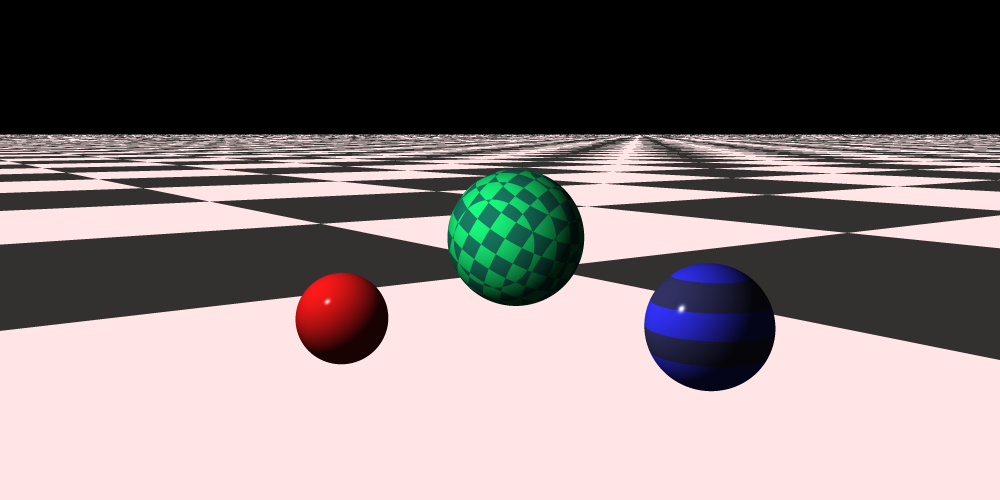
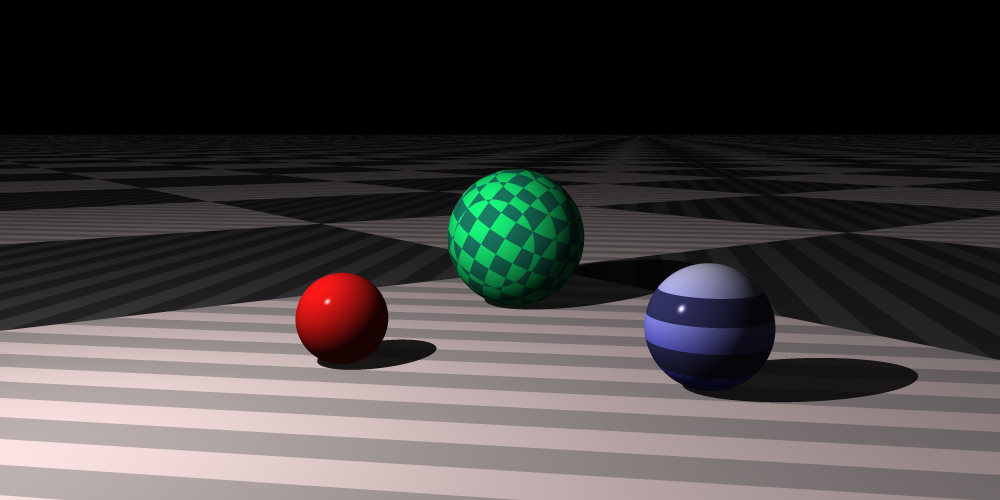
Updated main scene

diff --git a/cmd/main.go b/cmd/main.go
@@ -153,8 +153,16 @@ func drawTestScene() {
 		Color:     color.NewColor(1, 0.9, 0.9),
 		Pattern: shading.NewCheckerPattern3D(
 			matrix.ScalingU(20),
-			shading.SolidPat(1, 0.9, 0.9),
-			shading.SolidPat(0.2, 0.19, 0.19)),
+			shading.NewStripePattern(
+				matrix.RotationZ(math.Pi/4),
+				shading.SolidPat(1, 0.9, 0.9),
+				shading.SolidPat(.75, 0.7, 0.7),
+			),
+			shading.NewStripePattern(
+				matrix.RotationZ(-math.Pi/4),
+				shading.SolidPat(0.2, 0.19, 0.19),
+				shading.SolidPat(.3, 0.3, 0.3),
+			)),
 	}
 	floor := geometry.NewPlane(
 		matrix.Identity,
@@ -202,7 +210,14 @@ func drawTestScene() {
 					matrix.RotationY(math.Pi/2),
 					matrix.ScalingU(.5),
 				),
-				shading.SolidPat(0.2, 0.2, 1),
+				shading.NewGradientPattern(
+					matrix.Compose(
+						matrix.RotationY(math.Pi/2),
+						matrix.ScalingU(3),
+					),
+					shading.SolidPat(0.9, 0.9, 0.9),
+					shading.SolidPat(0.2, 0.2, 1),
+				),
 				shading.SolidPat(0.2, 0.2, 0.4)),
 		})
 

diff --git a/shading/stripe_pattern.go b/shading/stripe_pattern.go
@@ -1,6 +1,8 @@
 package shading
 
 import (
+	"math"
+
 	"github.com/Henelik/tricaster/color"
 	"github.com/Henelik/tricaster/matrix"
 	"github.com/Henelik/tricaster/tuple"
@@ -37,5 +39,5 @@ func (p *StripePattern) GetMatrix() *matrix.Matrix {
 
 func (p *StripePattern) Process(pos *tuple.Tuple) *color.Color {
 	tpos := p.im.MultTuple(pos)
-	return p.Patterns[util.AbsInt(int(tpos.X)%len(p.Patterns))].Process(pos)
+	return p.Patterns[util.AbsInt(int(math.Round(tpos.X))%len(p.Patterns))].Process(pos)
 }
